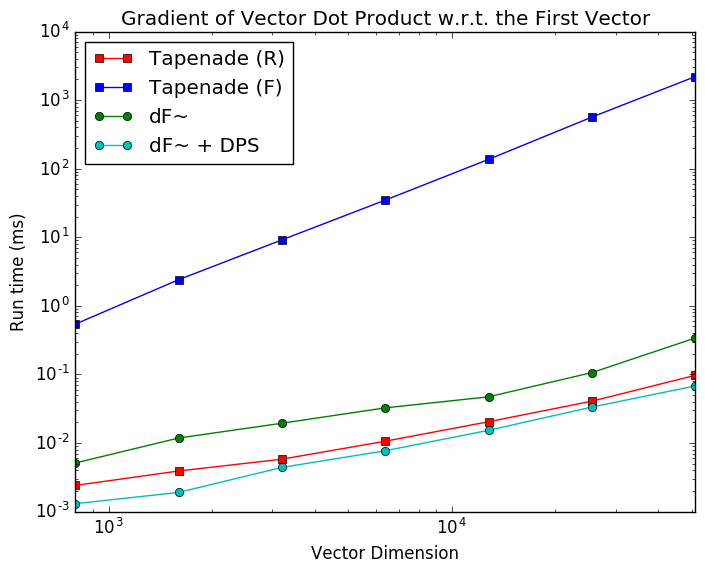
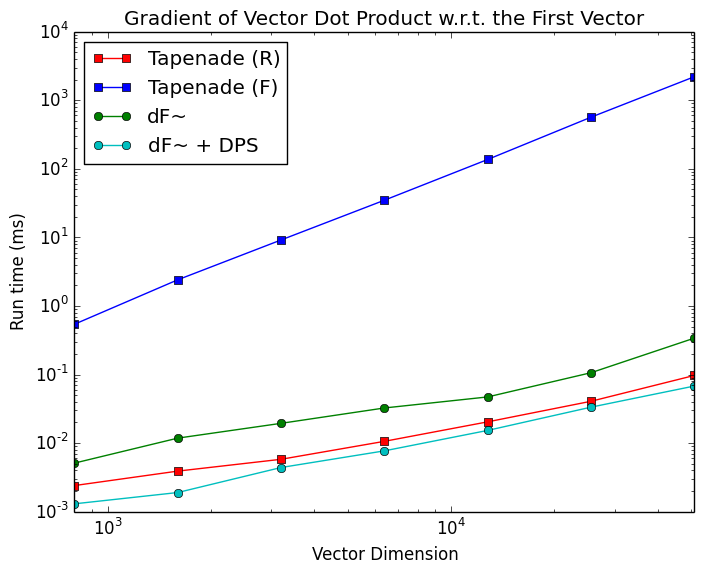
Improved plots.

diff --git a/autodiff-exps/plotting/plot.py b/autodiff-exps/plotting/plot.py
@@ -54,7 +54,7 @@ markers[DiffSmoothMotion] = 'o'
 markers[DiffSmoothMotionDPS] = 'o'
 markers[Theano] = 's'
 
-def plot(file, title, variants, xlabel = 'Vector Dimension'):
+def plot(file, title, variants, xlabel = 'Vector Dimension', legpos = 'upper left'):
 	data_file = file + ".csv"
 	if(os.path.isfile(data_file)):
 		names_val = ['x']
@@ -93,10 +93,16 @@ def plot(file, title, variants, xlabel = 'Vector Dimension'):
 		# ax1.plot(data['x'], data['y1'], c='r', marker="o", label=variants[1])
 		ax1.set_xlim(left=min(data['x']), right=max(data['x']))
 
-		leg = plt.legend(loc='upper left');
-		# plt.show()
 		figure_name = file + '.png'
-		plt.savefig(figure_name, bbox_extra_artists=(leg,), bbox_inches='tight')
+
+		if (legpos != '') :
+			if (legpos == 'upper left'):
+				leg = ax1.legend(loc=legpos);
+			else:
+				leg = ax1.legend(loc=legpos, bbox_to_anchor=(1, 0.5))
+			plt.savefig(figure_name, bbox_extra_artists=(leg,), bbox_inches='tight')
+		else:
+			plt.savefig(figure_name, bbox_extra_artists=(), bbox_inches='tight')
 		plt.close()
 
 plot('data/ba_proj', "Jacobian of Project in Bundle Adjustment", [TapenadeR, TapenadeF, DiffSmooth, DiffSmoothMotion, DiffSmoothMotionDPS])
@@ -104,10 +110,11 @@ plot('data/add', "Jacobian of Vector Addition w.r.t. the First Vector", [Tapenad
 plot('data/mults', "Gradient of Vector-Scalar Multiplication w.r.t. Scalar", [TapenadeR, TapenadeF, DiffSmooth, DiffSmoothDPS])
 plot('data/dot', "Gradient of Vector Dot Product w.r.t. the First Vector", [TapenadeR, TapenadeF, DiffSmooth, DiffSmoothDPS])
 plot('data/max', "Gradient of Vector Max w.r.t. the Input Vector", [TapenadeR, TapenadeF, DiffSmooth, DiffSmoothDPS])
-plot('data/lse', "Gradient of Log-Sum-Exp", [TapenadeR, TapenadeF, TapenadeRFused, TapenadeFFused, DiffSmooth, DiffSmoothDPS])
+plot('data/lse', "Gradient of Log-Sum-Exp", [TapenadeR, TapenadeF, TapenadeRFused, TapenadeFFused, DiffSmooth, DiffSmoothDPS], 
+	legpos = 'center left')
 plot('data/nmf_1', "Non-Negative Matrix Factorization -- Dimension of A: 100 x K", 
 	[TapenadeR, TapenadeF, TapenadeRFused, TapenadeFFused, Theano, DiffSmooth, DiffSmoothDPS],
-	xlabel = 'Dimension (K)')
+	xlabel = 'Dimension (K)', legpos = '')
 plot('data/nmf_2', "Non-Negative Matrix Factorization -- Dimension of A: K x 100", 
 	[TapenadeR, TapenadeF, TapenadeRFused, TapenadeFFused, Theano, DiffSmooth, DiffSmoothDPS],
-	xlabel = 'Dimension (K)')
+	xlabel = 'Dimension (K)', legpos = 'center left')
